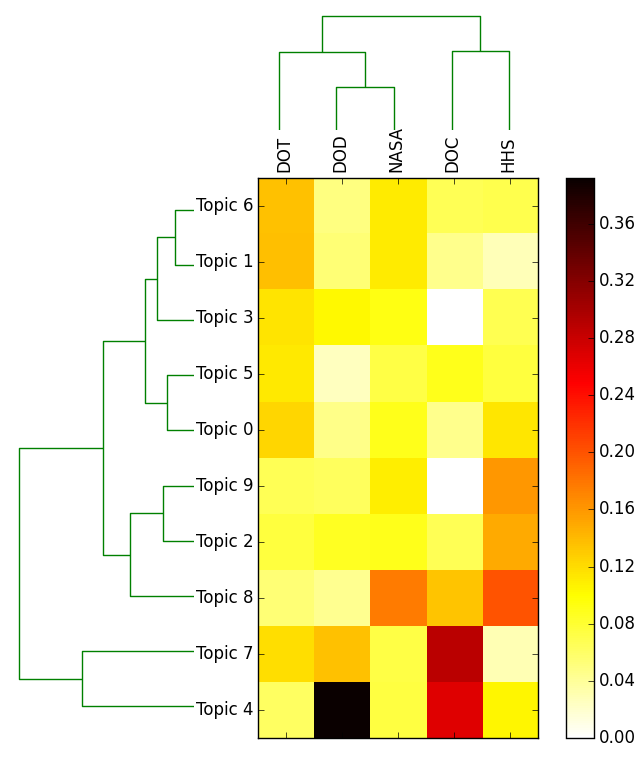
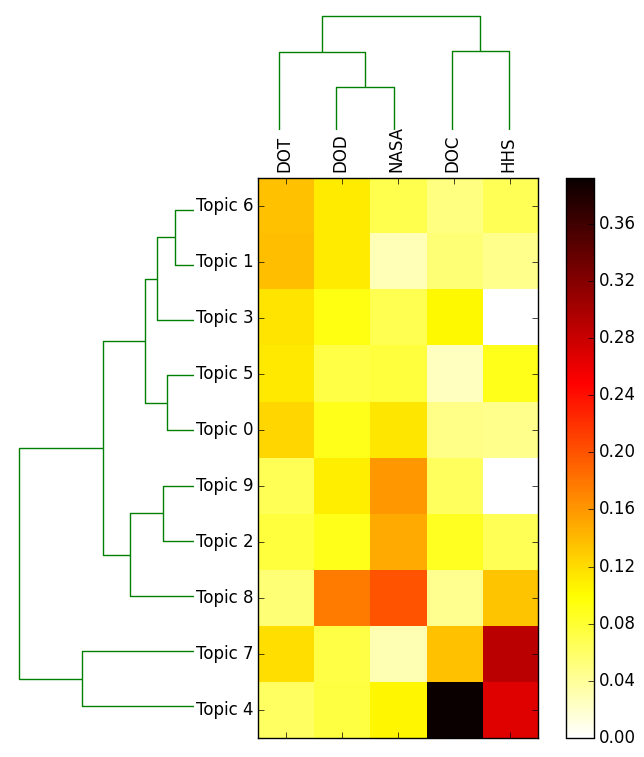
Fixed heatmaps bug

Changed region(s): [[0.4658, 0.2127, 0.8385, 0.9723]]

diff --git a/doc_parser.py b/doc_parser.py
@@ -326,7 +326,8 @@ def make_dendo_heatmap(arr, row_labels, column_labels, figname, settings):
     j.set_visible(False)
   # reorder columns and rows with respect to the clustering
   df_rowclust = df.ix[row_dendr['leaves'][::-1]]
-  df_rowclust.columns = [df_rowclust.columns[col_dendr['leaves']]]
+  # df_rowclust.columns = [df_rowclust.columns[col_dendr['leaves']]]
+  df_rowclust = df_rowclust[col_dendr['leaves']]
   # plot heatmap
   axm = fig.add_axes(settings.plot_axes)
   cax = axm.matshow(df_rowclust, interpolation='nearest', cmap='hot_r')
@@ -397,7 +398,7 @@ def _main():
     print("## %s" % data)
     docs = Document.load('files/data/%s.pkl' % data)
     graph, model, vocabulary = diversity(docs, data)
-    compute_document_topics(graph, model)
+    # compute_document_topics(graph, model)
 
   # model, vocabulary = graph.lda()
   # report_lda(model, vocabulary)
